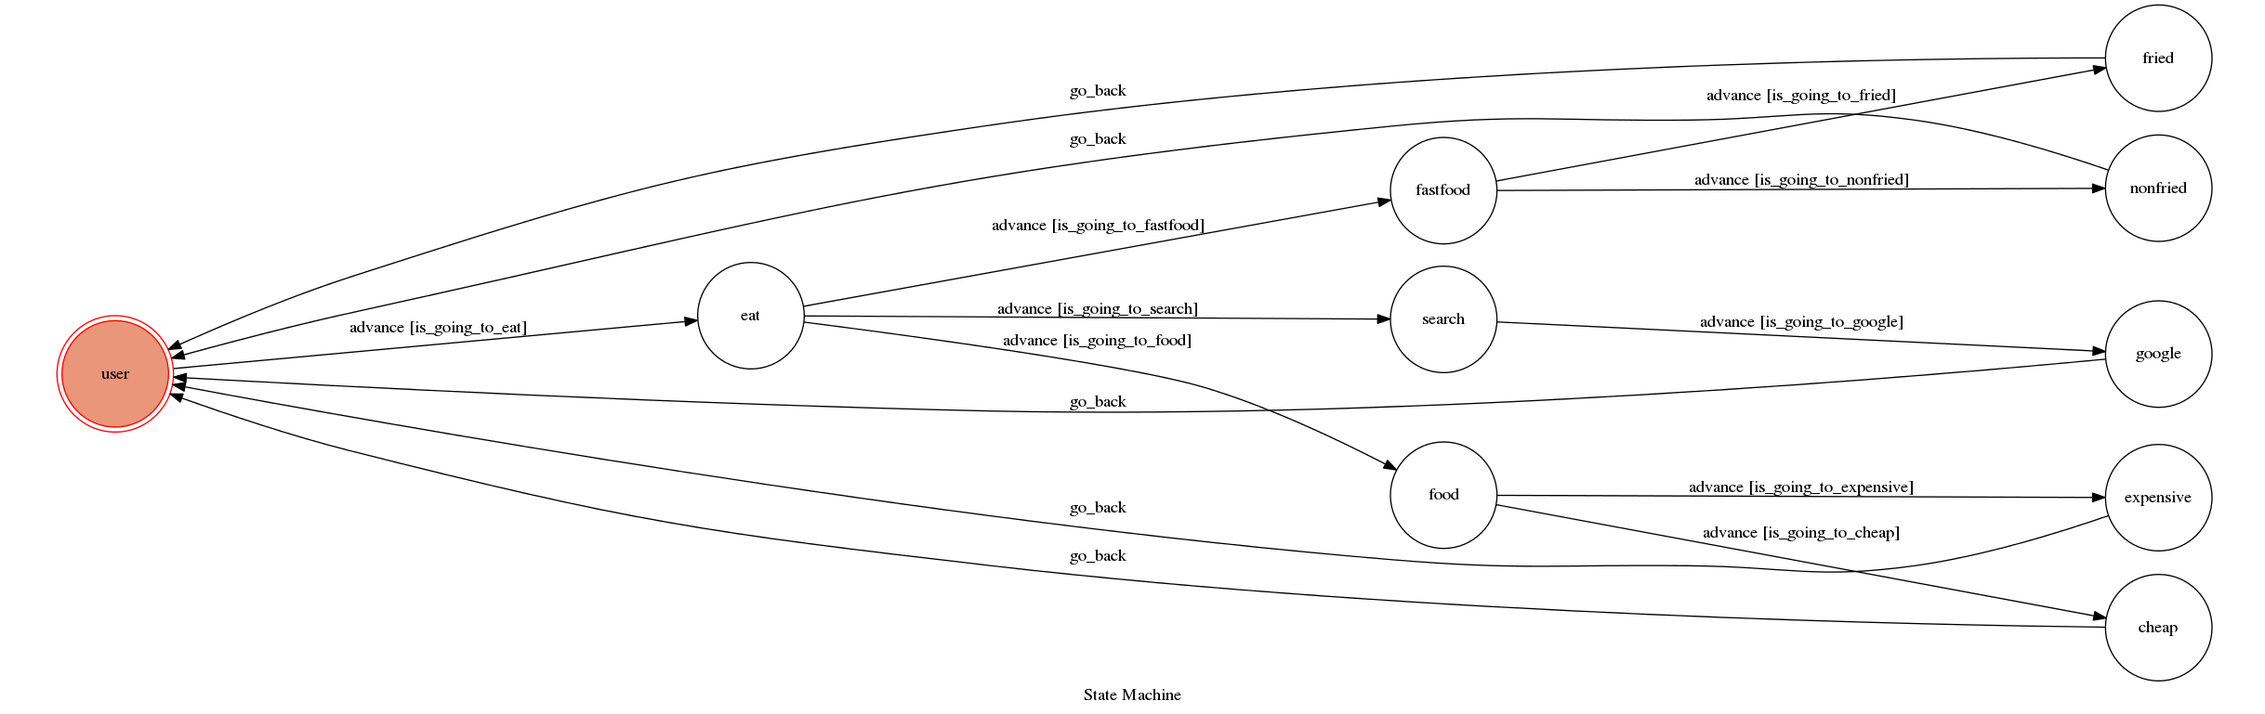
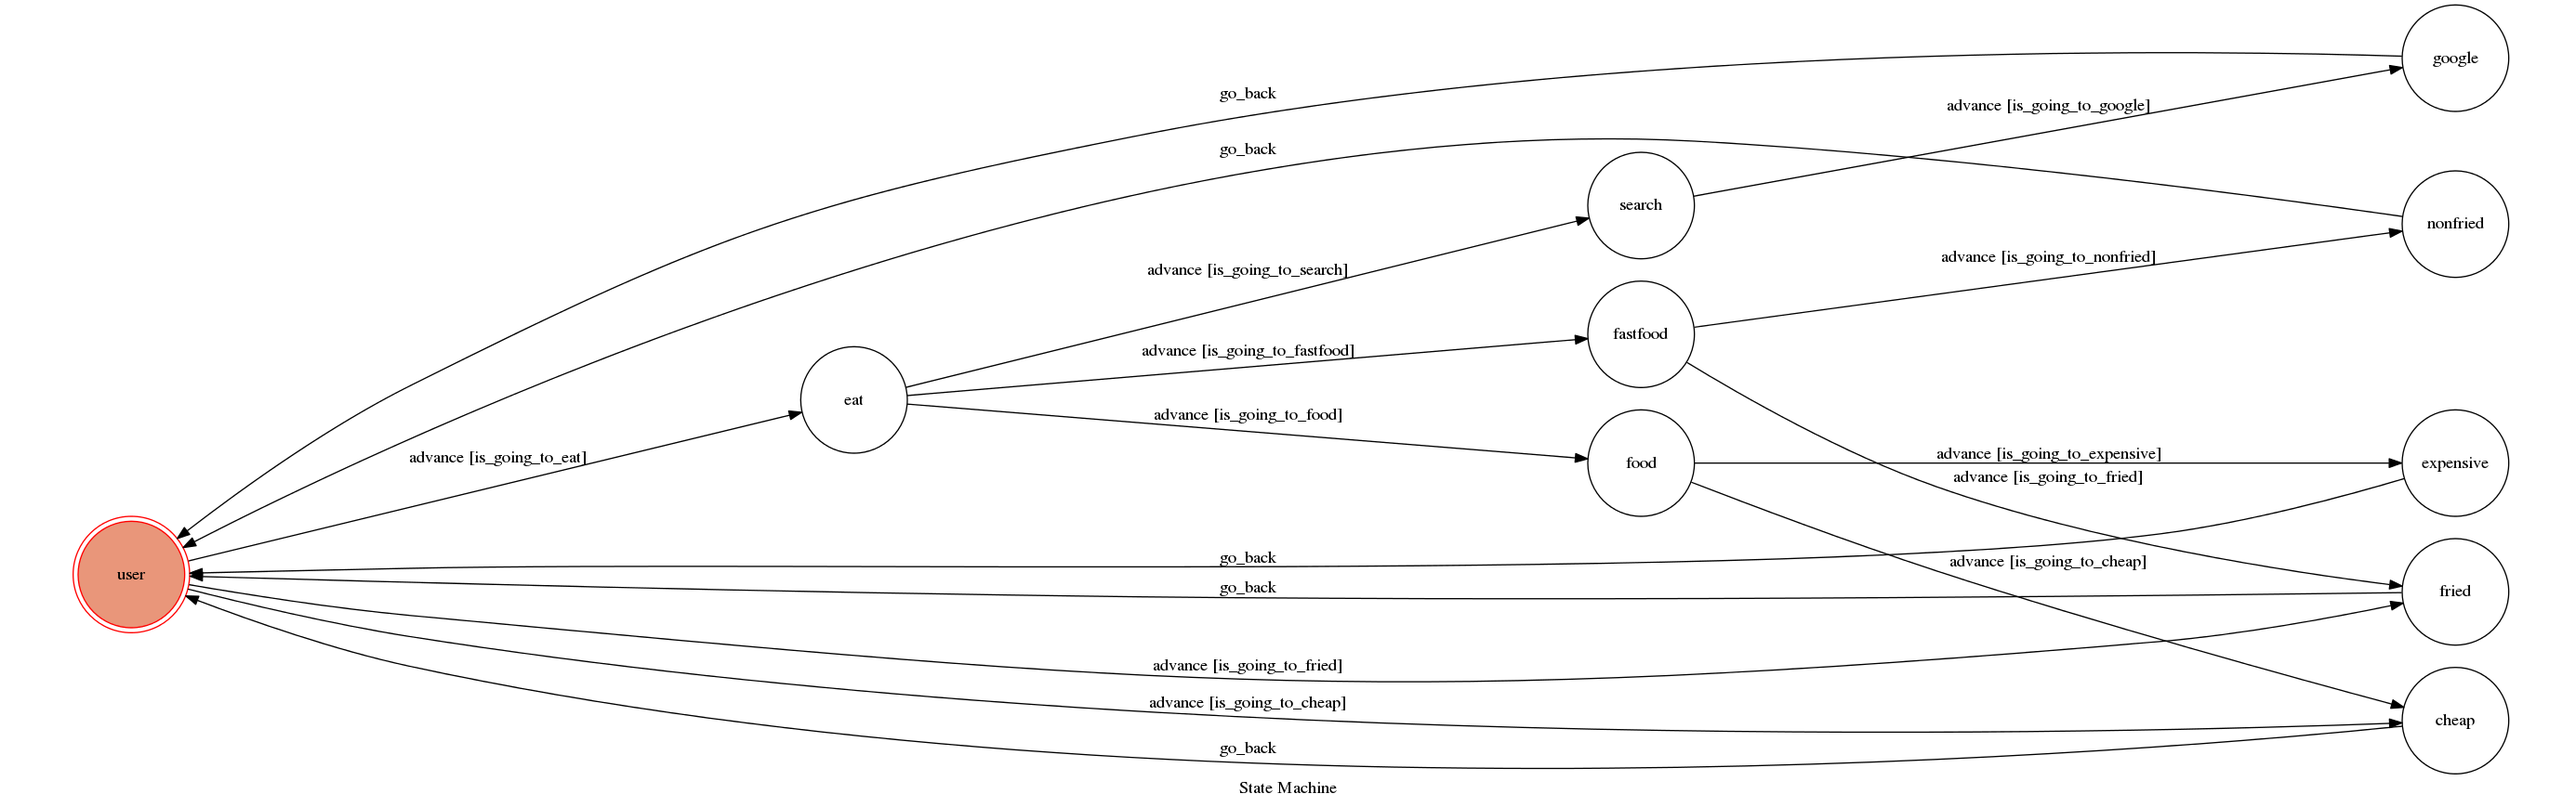
add the one word to get response by the bot

diff --git a/app.py b/app.py
@@ -9,7 +9,7 @@ from fsm import TocMachine
 import random
 
 API_TOKEN = '490896274:AAGxeUtQf1Td-rqaeQKs-qLo1z0y3OICuwo'
-WEBHOOK_URL = 'https://39c61131.ngrok.io/show-fsm'
+WEBHOOK_URL = 'https://31425acb.ngrok.io/hook'
 
 app = Flask(__name__)
 bot = telegram.Bot(token=API_TOKEN)
@@ -33,6 +33,18 @@ machine = TocMachine(
             'dest': 'eat',
             'conditions': 'is_going_to_eat'
         },
+        {
+            'trigger': 'advance',
+            'source': 'user',
+            'dest': 'fried',
+            'conditions': 'is_going_to_fried'
+        },
+        {
+            'trigger': 'advance',
+            'source': 'user',
+            'dest': 'cheap',
+            'conditions': 'is_going_to_cheap'
+        }, 
         {
             'trigger': 'advance',
             'source': 'eat',
